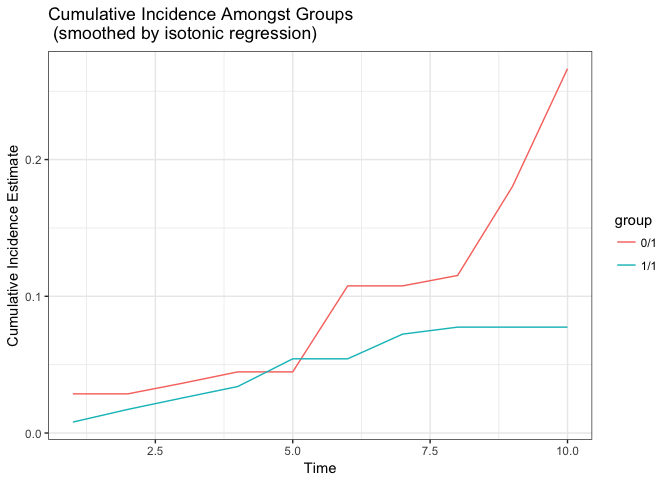
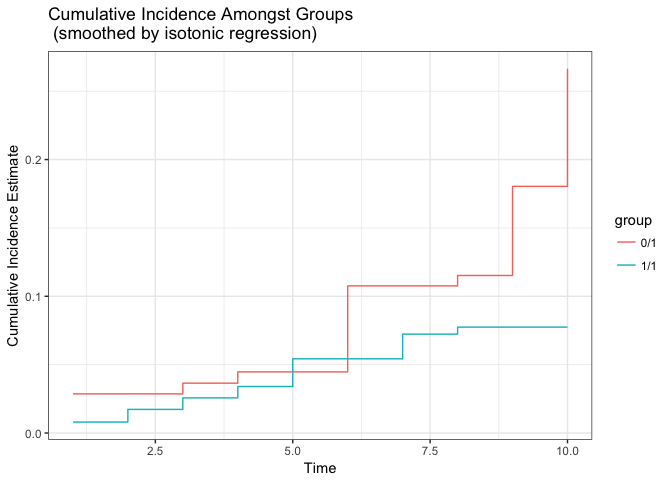
update readme and pkgdown site

diff --git a/docs/reference/plot.tp.survtmle.html b/docs/reference/plot.tp.survtmle.html
@@ -124,14 +124,7 @@ to <code>stats::isoreg</code></dd>
                   <span class='kw'>adjustVars</span> <span class='kw'>=</span> <span class='no'>W</span>, <span class='kw'>glm.ftime</span> <span class='kw'>=</span> <span class='st'>"I(W1*W2) + trt + t"</span>,
                   <span class='kw'>trt</span> <span class='kw'>=</span> <span class='no'>A</span>, <span class='kw'>glm.ctime</span> <span class='kw'>=</span> <span class='st'>"W1 + t"</span>, <span class='kw'>method</span> <span class='kw'>=</span> <span class='st'>"hazard"</span>,
                   <span class='kw'>verbose</span> <span class='kw'>=</span> <span class='fl'>TRUE</span>,  <span class='kw'>t0</span> <span class='kw'>=</span> <span class='no'>t_0</span>, <span class='kw'>maxIter</span> <span class='kw'>=</span> <span class='fl'>2</span>)
-)</div><div class='output co'>#&gt; TMLE Iteration  1   :  -9e-04 1e-04 </div><div class='input'><span class='no'>tpfit</span> <span class='kw'>&lt;-</span> <span class='fu'><a href='timepoints.html'>timepoints</a></span>(<span class='no'>fit</span>, <span class='kw'>times</span> <span class='kw'>=</span> <span class='fu'>seq_len</span>(<span class='no'>t_0</span>))</div><div class='output co'>#&gt; TMLE Iteration  1   :  0 0 
-#&gt; TMLE Iteration  1   :  -3e-04 0 
-#&gt; TMLE Iteration  1   :  -6e-04 0 
-#&gt; TMLE Iteration  1   :  -3e-04 0 
-#&gt; TMLE Iteration  1   :  -0.0017 0 
-#&gt; TMLE Iteration  1   :  -9e-04 -2e-04 
-#&gt; TMLE Iteration  1   :  -5e-04 -2e-04 
-#&gt; TMLE Iteration  1   :  -0.0017 -1e-04 </div><div class='input'><span class='fu'>plot</span>(<span class='no'>tpfit</span>, <span class='kw'>type</span> <span class='kw'>=</span> <span class='st'>"smooth"</span>)</div><img src='plot.tp.survtmle-6.png' alt='' width='540' height='400' /><div class='input'>
+)</div><div class='output co'>#&gt; TMLE Iteration  1   :  -9e-04 1e-04 </div><div class='input'><span class='no'>tpfit</span> <span class='kw'>&lt;-</span> <span class='fu'><a href='timepoints.html'>timepoints</a></span>(<span class='no'>fit</span>, <span class='kw'>times</span> <span class='kw'>=</span> <span class='fu'>seq_len</span>(<span class='no'>t_0</span>))</div><div class='output co'>#&gt; <span class='warning'>Warning: the condition has length &gt; 1 and only the first element will be used</span></div><div class='output co'>#&gt; <span class='warning'>Warning: the condition has length &gt; 1 and only the first element will be used</span></div><div class='output co'>#&gt; <span class='warning'>Warning: the condition has length &gt; 1 and only the first element will be used</span></div><div class='output co'>#&gt; TMLE Iteration  1   :  0 0 </div><div class='output co'>#&gt; <span class='warning'>Warning: the condition has length &gt; 1 and only the first element will be used</span></div><div class='output co'>#&gt; TMLE Iteration  1   :  -3e-04 0 </div><div class='output co'>#&gt; <span class='warning'>Warning: the condition has length &gt; 1 and only the first element will be used</span></div><div class='output co'>#&gt; TMLE Iteration  1   :  -6e-04 0 </div><div class='output co'>#&gt; <span class='warning'>Warning: the condition has length &gt; 1 and only the first element will be used</span></div><div class='output co'>#&gt; TMLE Iteration  1   :  -3e-04 0 </div><div class='output co'>#&gt; <span class='warning'>Warning: the condition has length &gt; 1 and only the first element will be used</span></div><div class='output co'>#&gt; TMLE Iteration  1   :  -0.0017 0 </div><div class='output co'>#&gt; <span class='warning'>Warning: the condition has length &gt; 1 and only the first element will be used</span></div><div class='output co'>#&gt; TMLE Iteration  1   :  -9e-04 -2e-04 </div><div class='output co'>#&gt; <span class='warning'>Warning: the condition has length &gt; 1 and only the first element will be used</span></div><div class='output co'>#&gt; TMLE Iteration  1   :  -5e-04 -2e-04 </div><div class='output co'>#&gt; <span class='warning'>Warning: the condition has length &gt; 1 and only the first element will be used</span></div><div class='output co'>#&gt; TMLE Iteration  1   :  -0.0017 -1e-04 </div><div class='input'><span class='fu'>plot</span>(<span class='no'>tpfit</span>, <span class='kw'>type</span> <span class='kw'>=</span> <span class='st'>"smooth"</span>)</div><img src='plot.tp.survtmle-23.png' alt='' width='540' height='400' /><div class='input'>
 </div></pre>
   </div>
   <div class="col-md-3 hidden-xs hidden-sm" id="sidebar">

diff --git a/docs/index.html b/docs/index.html
@@ -122,14 +122,37 @@ fit &lt;-<span class="st"> </span><span class="kw"><a href="reference/survtmle.h
 
 <span class="co"># extract cumulative incidence at each time point</span>
 tpfit &lt;-<span class="st"> </span><span class="kw"><a href="reference/timepoints.html">timepoints</a></span>(fit, <span class="dt">times =</span> <span class="kw">seq_len</span>(t_<span class="dv">0</span>))
-<span class="co">#&gt; TMLE Iteration  1   :  0 0 </span>
-<span class="co">#&gt; TMLE Iteration  1   :  -3e-04 0 </span>
-<span class="co">#&gt; TMLE Iteration  1   :  -6e-04 0 </span>
-<span class="co">#&gt; TMLE Iteration  1   :  -3e-04 0 </span>
-<span class="co">#&gt; TMLE Iteration  1   :  -0.0017 0 </span>
-<span class="co">#&gt; TMLE Iteration  1   :  -9e-04 -2e-04 </span>
-<span class="co">#&gt; TMLE Iteration  1   :  -5e-04 -2e-04 </span>
+<span class="co">#&gt; Warning in if (cglm) {: the condition has length &gt; 1 and only the first</span>
+<span class="co">#&gt; element will be used</span>
+<span class="co">#&gt; Warning in if (glm.ctime != "No censoring observed") {: the condition has</span>
+<span class="co">#&gt; length &gt; 1 and only the first element will be used</span>
+
+<span class="co">#&gt; Warning in if (glm.ctime != "No censoring observed") {: the condition has</span>
+<span class="co">#&gt; length &gt; 1 and only the first element will be used</span>
+<span class="co">#&gt; TMLE Iteration  1   :  0 0</span>
+<span class="co">#&gt; Warning in if (glm.ctime != "No censoring observed") {: the condition has</span>
+<span class="co">#&gt; length &gt; 1 and only the first element will be used</span>
+<span class="co">#&gt; TMLE Iteration  1   :  -3e-04 0</span>
+<span class="co">#&gt; Warning in if (glm.ctime != "No censoring observed") {: the condition has</span>
+<span class="co">#&gt; length &gt; 1 and only the first element will be used</span>
+<span class="co">#&gt; TMLE Iteration  1   :  -6e-04 0</span>
+<span class="co">#&gt; Warning in if (glm.ctime != "No censoring observed") {: the condition has</span>
+<span class="co">#&gt; length &gt; 1 and only the first element will be used</span>
+<span class="co">#&gt; TMLE Iteration  1   :  -3e-04 0</span>
+<span class="co">#&gt; Warning in if (glm.ctime != "No censoring observed") {: the condition has</span>
+<span class="co">#&gt; length &gt; 1 and only the first element will be used</span>
+<span class="co">#&gt; TMLE Iteration  1   :  -0.0017 0</span>
+<span class="co">#&gt; Warning in if (glm.ctime != "No censoring observed") {: the condition has</span>
+<span class="co">#&gt; length &gt; 1 and only the first element will be used</span>
+<span class="co">#&gt; TMLE Iteration  1   :  -9e-04 -2e-04</span>
+<span class="co">#&gt; Warning in if (glm.ctime != "No censoring observed") {: the condition has</span>
+<span class="co">#&gt; length &gt; 1 and only the first element will be used</span>
+<span class="co">#&gt; TMLE Iteration  1   :  -5e-04 -2e-04</span>
+<span class="co">#&gt; Warning in if (glm.ctime != "No censoring observed") {: the condition has</span>
+<span class="co">#&gt; length &gt; 1 and only the first element will be used</span>
 <span class="co">#&gt; TMLE Iteration  1   :  -0.0017 -1e-04</span>
+
+<span class="co"># examine output object produced by the timepoints function</span>
 <span class="kw">print</span>(tpfit)
 <span class="co">#&gt; $est</span>
 <span class="co">#&gt;              t1         t2         t3         t4         t5         t6</span>

diff --git a/docs/reference/timepoints.html b/docs/reference/timepoints.html
@@ -128,8 +128,7 @@ timepoints specified and the size of the super learner library.</dd>
 <span class='kw'>method</span><span class='kw'>=</span><span class='st'>"mean"</span>, <span class='kw'>returnModels</span> <span class='kw'>=</span> <span class='fl'>TRUE</span>)
 
 <span class='co'># call timepoints to get cumulative incidence estimates at each timepoint</span>
-<span class='no'>allTimes</span> <span class='kw'>&lt;-</span> <span class='fu'>timepoints</span>(<span class='kw'>object</span> <span class='kw'>=</span> <span class='no'>fm</span>, <span class='kw'>times</span> <span class='kw'>=</span> <span class='fl'>1</span>:<span class='fl'>4</span>, <span class='kw'>returnModels</span> <span class='kw'>=</span> <span class='fl'>FALSE</span>)
-
+<span class='no'>allTimes</span> <span class='kw'>&lt;-</span> <span class='fu'>timepoints</span>(<span class='kw'>object</span> <span class='kw'>=</span> <span class='no'>fm</span>, <span class='kw'>times</span> <span class='kw'>=</span> <span class='fl'>1</span>:<span class='fl'>4</span>, <span class='kw'>returnModels</span> <span class='kw'>=</span> <span class='fl'>FALSE</span>)</div><div class='output co'>#&gt; <span class='warning'>Warning: the condition has length &gt; 1 and only the first element will be used</span></div><div class='output co'>#&gt; <span class='warning'>Warning: the condition has length &gt; 1 and only the first element will be used</span></div><div class='output co'>#&gt; <span class='warning'>Warning: the condition has length &gt; 1 and only the first element will be used</span></div><div class='output co'>#&gt; <span class='warning'>Warning: the condition has length &gt; 1 and only the first element will be used</span></div><div class='input'>
 <span class='co'># look at results for time 1</span>
 <span class='fu'>class</span>(<span class='no'>allTimes</span>$<span class='no'>t1</span>)</div><div class='output co'>#&gt; [1] &quot;survtmle&quot;</div><div class='input'><span class='no'>allTimes</span>$<span class='no'>t1</span></div><div class='output co'>#&gt; $est
 #&gt;           [,1]

diff --git a/docs/articles/basicSieveAnalysis.html b/docs/articles/basicSieveAnalysis.html
@@ -60,7 +60,7 @@
       <h1>Vaccine Sieve Analysis by Targeted Learning</h1>
                         <h4 class="author">Nima Hejazi &amp; David Benkeser</h4>
             
-            <h4 class="date">2017-07-06</h4>
+            <h4 class="date">2017-07-07</h4>
           </div>
 
     
@@ -87,8 +87,8 @@
 <div id="session-information" class="section level2">
 <h2 class="hasAnchor">
 <html><body><a href="#session-information" class="anchor"> </a></body></html>Session Information</h2>
-<pre><code>## R version 3.4.0 (2017-04-21)
-## Platform: x86_64-apple-darwin16.5.0 (64-bit)
+<pre><code>## R version 3.4.1 (2017-06-30)
+## Platform: x86_64-apple-darwin16.6.0 (64-bit)
 ## Running under: macOS Sierra 10.12.5
 ## 
 ## Matrix products: default
@@ -118,12 +118,12 @@
 ## [25] highlight_0.4.7.1   Rcpp_0.12.11        scales_0.4.1       
 ## [28] backports_1.1.0     desc_1.1.0          pkgload_0.0.0.9000 
 ## [31] gridExtra_2.2.1     digest_0.6.12       stringi_1.1.5      
-## [34] grid_3.4.0          rprojroot_1.2       tools_3.4.0        
+## [34] grid_3.4.1          rprojroot_1.2       tools_3.4.1        
 ## [37] magrittr_1.5        lazyeval_0.2.0      tibble_1.3.3       
 ## [40] crayon_1.3.2        whisker_0.3-2       tidyr_0.6.3        
 ## [43] pkgconfig_2.0.1     Matrix_1.2-10       xml2_1.1.1         
 ## [46] SuperLearner_2.0-22 assertthat_0.2.0    rmarkdown_1.6      
-## [49] roxygen2_6.0.1      R6_2.2.2            compiler_3.4.0</code></pre>
+## [49] roxygen2_6.0.1      R6_2.2.2            compiler_3.4.1</code></pre>
 </div>
 </div>
   </div>

diff --git a/docs/reference/updateVariables.html b/docs/reference/updateVariables.html
@@ -87,7 +87,7 @@ loss-based estimation fluctuation step.</p>
     
 
     <pre><span class='fu'>updateVariables</span>(<span class='no'>dataList</span>, <span class='no'>allJ</span>, <span class='no'>ofInterestJ</span>, <span class='no'>nJ</span>, <span class='no'>uniqtrt</span>, <span class='no'>ntrt</span>, <span class='no'>t0</span>, <span class='no'>verbose</span>,
-  <span class='kw'>cvSieve</span> <span class='kw'>=</span> <span class='fl'>FALSE</span>, <span class='no'>...</span>)</pre>
+  <span class='no'>...</span>)</pre>
     
     <h2 class="hasAnchor" id="arguments"><a class="anchor" href="#arguments"></a> Arguments</h2>
     <dl class="dl-horizontal">
@@ -107,9 +107,7 @@ loss-based estimation fluctuation step.</p>
       <dt>t0</dt>
       <dd>The timepoint at which <code>survtmle</code> was called to evaluate.</dd>
       <dt>verbose</dt>
-      <dd>A boolean indicating whether the function should print messages to indicate progress.</dd>
-      <dt>cvSieve</dt>
-      <dd>A boolean indicating whether the function should compute clever covariates for
+      <dd>A boolean indicating whether the function should print messages to indicate progress.
 the cross-validated sieve effect parameter.</dd>
       <dt>...</dt>
       <dd>Other arguments. Not currently used.</dd>

diff --git a/docs/reference/fluctuateHazards.html b/docs/reference/fluctuateHazards.html
@@ -98,7 +98,7 @@ then obtains predictions based on this fit on each of the <code>data.frame</code
     
 
     <pre><span class='fu'>fluctuateHazards</span>(<span class='no'>dataList</span>, <span class='no'>allJ</span>, <span class='no'>ofInterestJ</span>, <span class='no'>nJ</span>, <span class='no'>uniqtrt</span>, <span class='no'>ntrt</span>, <span class='no'>t0</span>, <span class='no'>verbose</span>,
-  <span class='kw'>cvSieve</span> <span class='kw'>=</span> <span class='fl'>FALSE</span>, <span class='no'>...</span>)</pre>
+  <span class='no'>...</span>)</pre>
     
     <h2 class="hasAnchor" id="arguments"><a class="anchor" href="#arguments"></a> Arguments</h2>
     <dl class="dl-horizontal">
@@ -119,8 +119,6 @@ then obtains predictions based on this fit on each of the <code>data.frame</code
       <dd>The timepoint at which <code>survtmle</code> was called to evaluate.</dd>
       <dt>verbose</dt>
       <dd>A boolean indicating whether the function should print messages to indicate progress.</dd>
-      <dt>cvSieve</dt>
-      <dd>A boolean indicating whether to fluctuate towards estimation of a cross-validated sieve effect.</dd>
       <dt>...</dt>
       <dd>Other arguments. Not currently used.</dd>
     </dl>

diff --git a/docs/reference/print.tp.survtmle.html b/docs/reference/print.tp.survtmle.html
@@ -90,9 +90,9 @@
     <h2 class="hasAnchor" id="arguments"><a class="anchor" href="#arguments"></a> Arguments</h2>
     <dl class="dl-horizontal">
       <dt>x</dt>
-      <dd>An object of class <code>tp.survtmle</code></dd>
+      <dd>An object of class <code>tp.survtmle</code>.</dd>
       <dt>...</dt>
-      <dd>Other options (not currently used)</dd>
+      <dd>Other options (not currently used).</dd>
     </dl>
     
     <h2 class="hasAnchor" id="value"><a class="anchor" href="#value"></a>Value</h2>

diff --git a/README.md b/README.md
@@ -74,14 +74,37 @@ fit <- survtmle(ftime = ftime, ftype = ftype,
 
 # extract cumulative incidence at each time point
 tpfit <- timepoints(fit, times = seq_len(t_0))
-#> TMLE Iteration  1   :  0 0 
-#> TMLE Iteration  1   :  -3e-04 0 
-#> TMLE Iteration  1   :  -6e-04 0 
-#> TMLE Iteration  1   :  -3e-04 0 
-#> TMLE Iteration  1   :  -0.0017 0 
-#> TMLE Iteration  1   :  -9e-04 -2e-04 
-#> TMLE Iteration  1   :  -5e-04 -2e-04 
+#> Warning in if (cglm) {: the condition has length > 1 and only the first
+#> element will be used
+#> Warning in if (glm.ctime != "No censoring observed") {: the condition has
+#> length > 1 and only the first element will be used
+
+#> Warning in if (glm.ctime != "No censoring observed") {: the condition has
+#> length > 1 and only the first element will be used
+#> TMLE Iteration  1   :  0 0
+#> Warning in if (glm.ctime != "No censoring observed") {: the condition has
+#> length > 1 and only the first element will be used
+#> TMLE Iteration  1   :  -3e-04 0
+#> Warning in if (glm.ctime != "No censoring observed") {: the condition has
+#> length > 1 and only the first element will be used
+#> TMLE Iteration  1   :  -6e-04 0
+#> Warning in if (glm.ctime != "No censoring observed") {: the condition has
+#> length > 1 and only the first element will be used
+#> TMLE Iteration  1   :  -3e-04 0
+#> Warning in if (glm.ctime != "No censoring observed") {: the condition has
+#> length > 1 and only the first element will be used
+#> TMLE Iteration  1   :  -0.0017 0
+#> Warning in if (glm.ctime != "No censoring observed") {: the condition has
+#> length > 1 and only the first element will be used
+#> TMLE Iteration  1   :  -9e-04 -2e-04
+#> Warning in if (glm.ctime != "No censoring observed") {: the condition has
+#> length > 1 and only the first element will be used
+#> TMLE Iteration  1   :  -5e-04 -2e-04
+#> Warning in if (glm.ctime != "No censoring observed") {: the condition has
+#> length > 1 and only the first element will be used
 #> TMLE Iteration  1   :  -0.0017 -1e-04
+
+# examine output object produced by the timepoints function
 print(tpfit)
 #> $est
 #>              t1         t2         t3         t4         t5         t6
